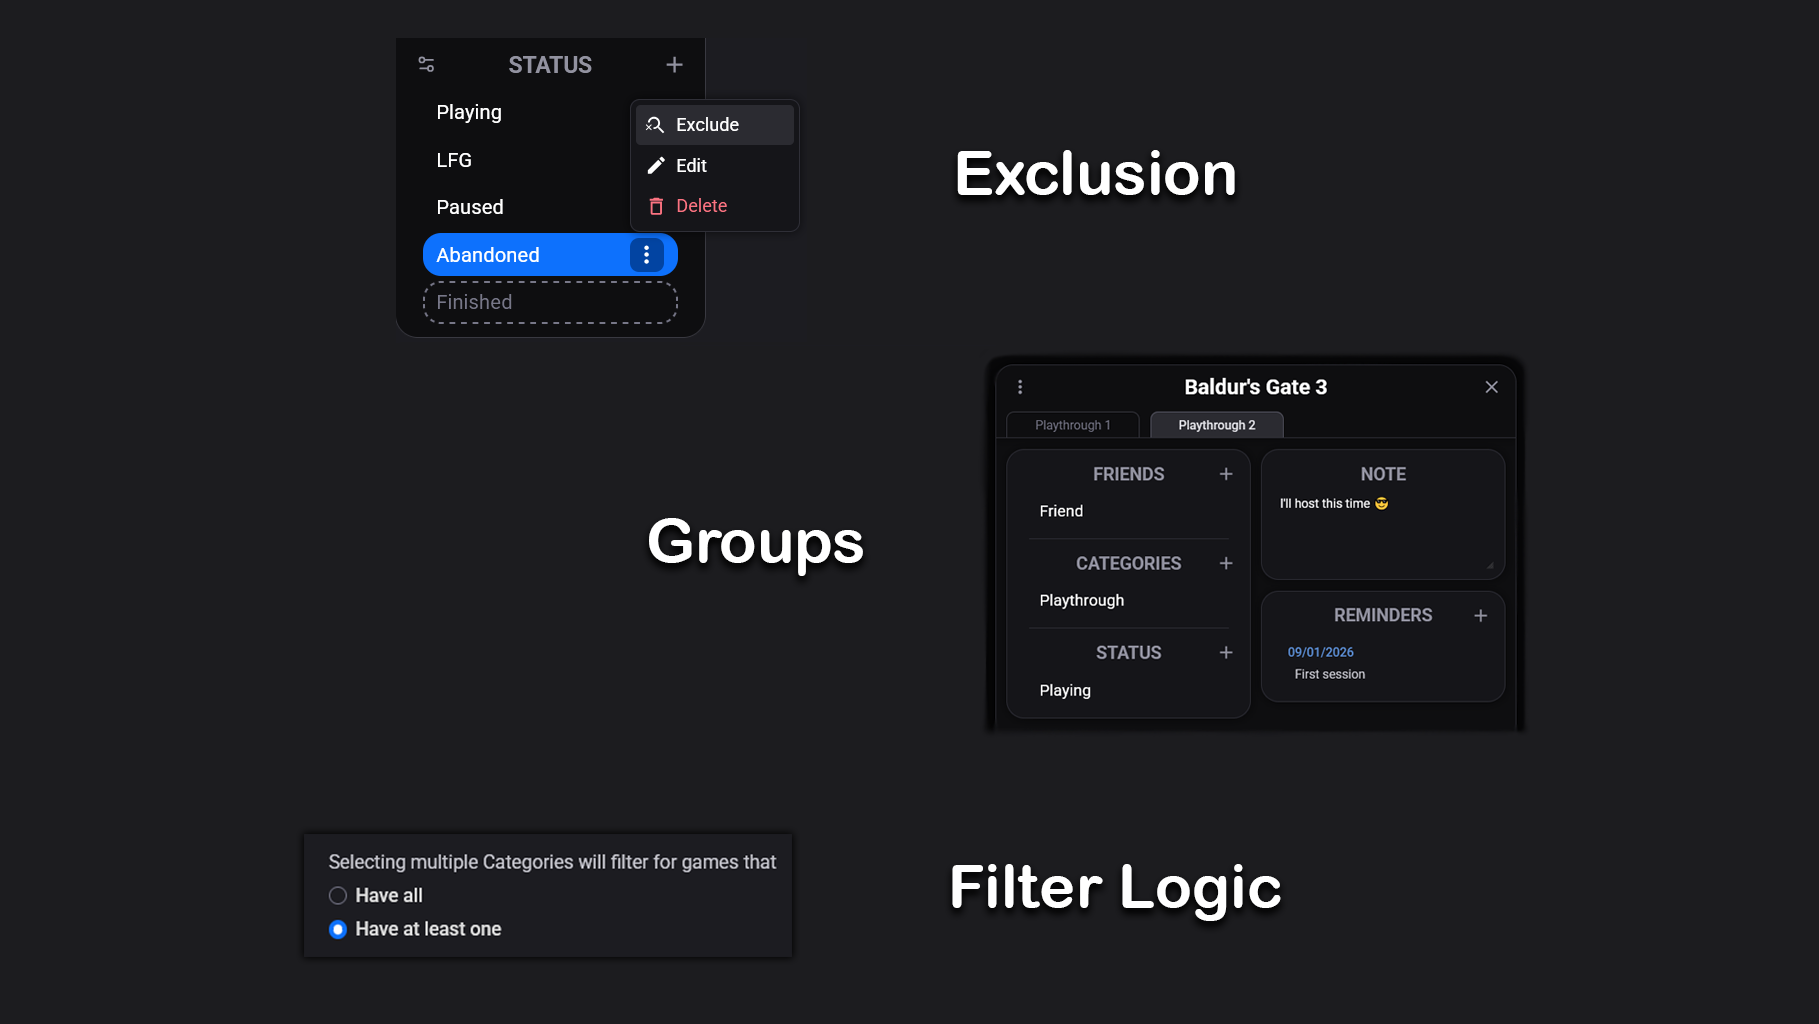
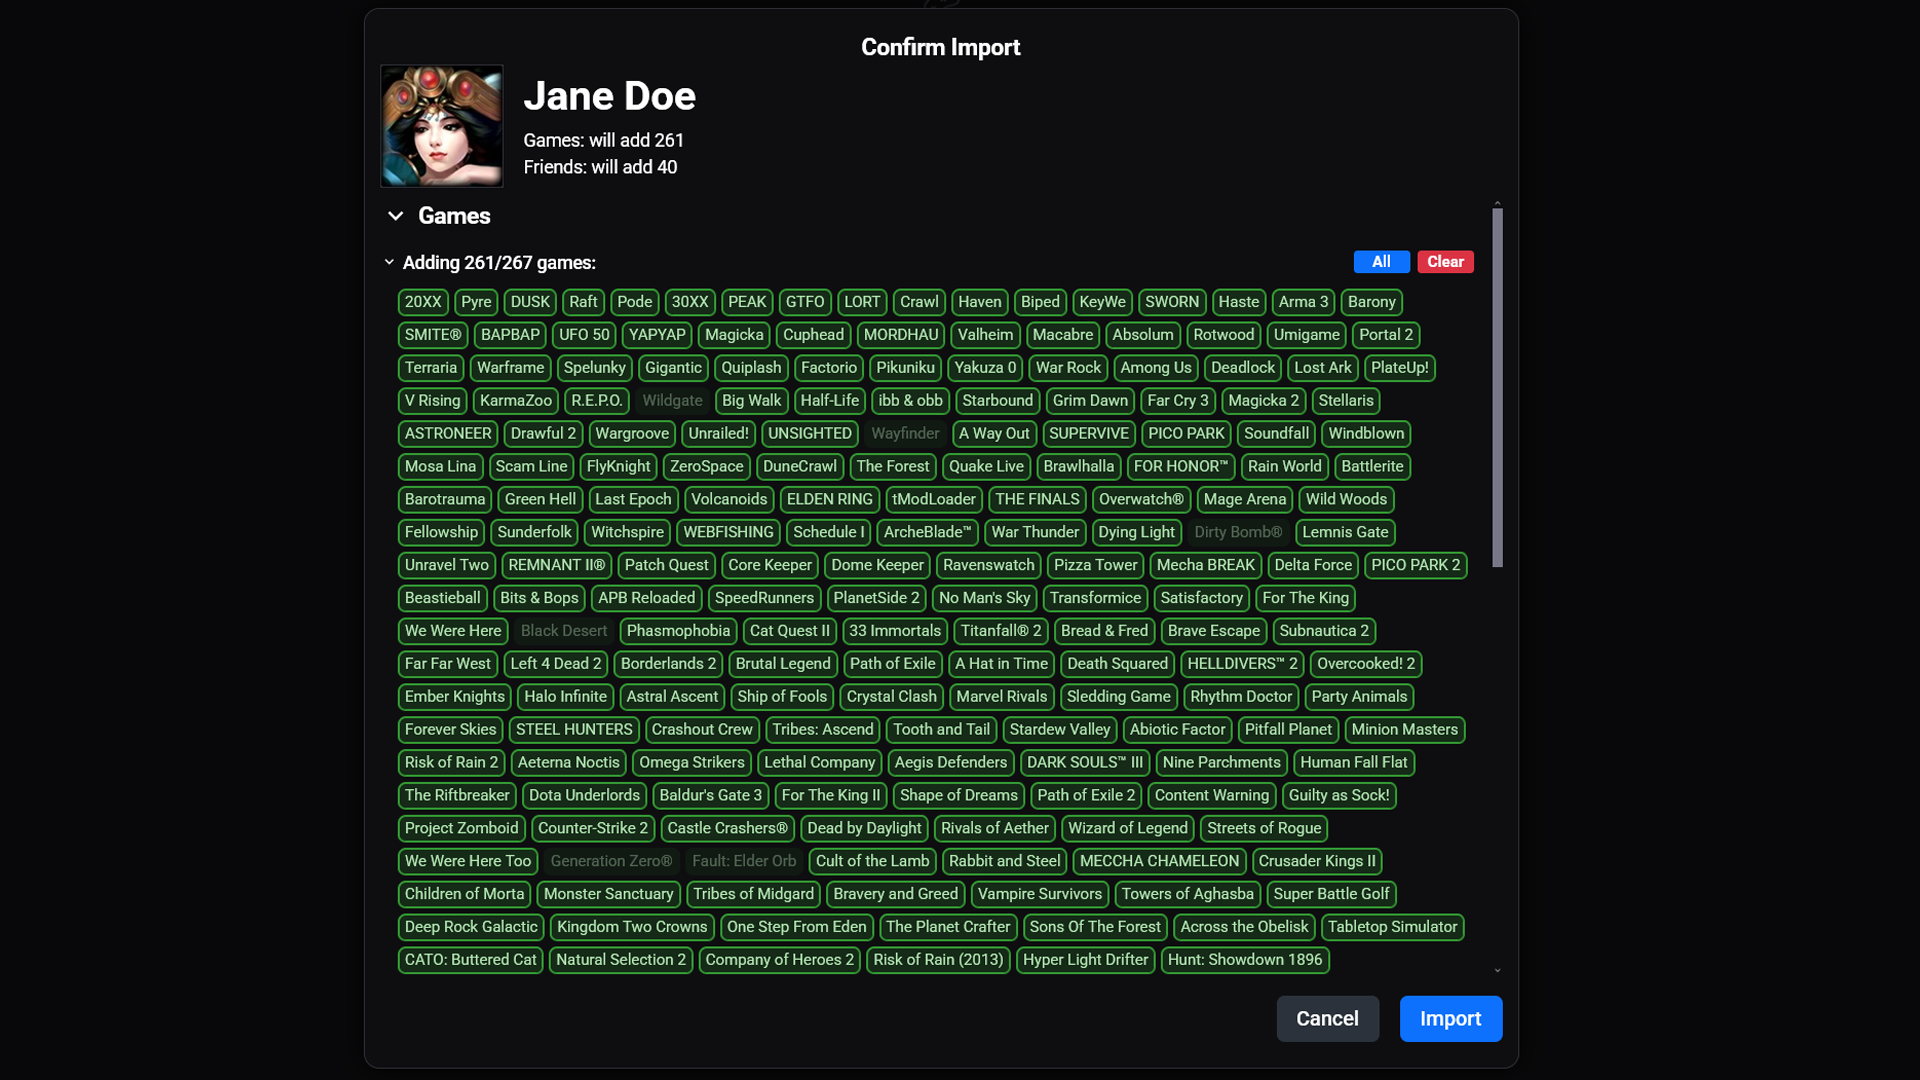
Update homepage with import screenshot

Changed region(s): [[0.1539, 0.0, 0.8004, 1.0], [0.5234, 0.125, 0.6773, 0.1875]]

diff --git a/src/pages/Home.jsx b/src/pages/Home.jsx
@@ -68,19 +68,19 @@ export default function Home() {
                         <div className="topic">
                             <h2>Plan</h2>
                             <p>
-                                Besides your current library, you can also add games that you don&apos;t
-                                have or aren&apos;t out yet, to plan ahead with friends
+                                You can also add games you don&apos;t have yet, or that haven&apos;t
+                                released yet, to plan ahead with friends
                                 <br />
                                 <br />
-                                If you&apos;re looking forward to some release date, or when a friend
-                                will have free time, you can add Reminders
+                                If you&apos;re looking forward to some release date, or when a
+                                friend will have free time, you can add Reminders
                             </p>
                         </div>
                         <div className="topic">
-                            <h2>Import from Steam</h2>
+                            <h2>Steam Import</h2>
                             <p>
-                                Playfrens can import your Games and Friends from Steam, and keeps
-                                them synced
+                                Optionally import your Games and Friends from Steam, and keep them
+                                synced
                             </p>
                         </div>
                         <div className="topic">

diff --git a/src/components/EmblaCarousel.jsx b/src/components/EmblaCarousel.jsx
@@ -8,7 +8,7 @@ export const EmblaCarousel = () => {
     // not using props for slides or options here, since only 1 carousel in the project, just writing it here
     const [emblaRef, emblaApi] = useEmblaCarousel({ loop: true });
 
-    const homepage_slides = ["1.mp4", "2.mp4", "3.png", "4.png"];
+    const homepage_slides = ["1.mp4", "2.mp4", "3.png", "4.png", "5.png"];
     const delayDuration = 4000;
 
     const autoplayEnabledRef = useRef(true);
